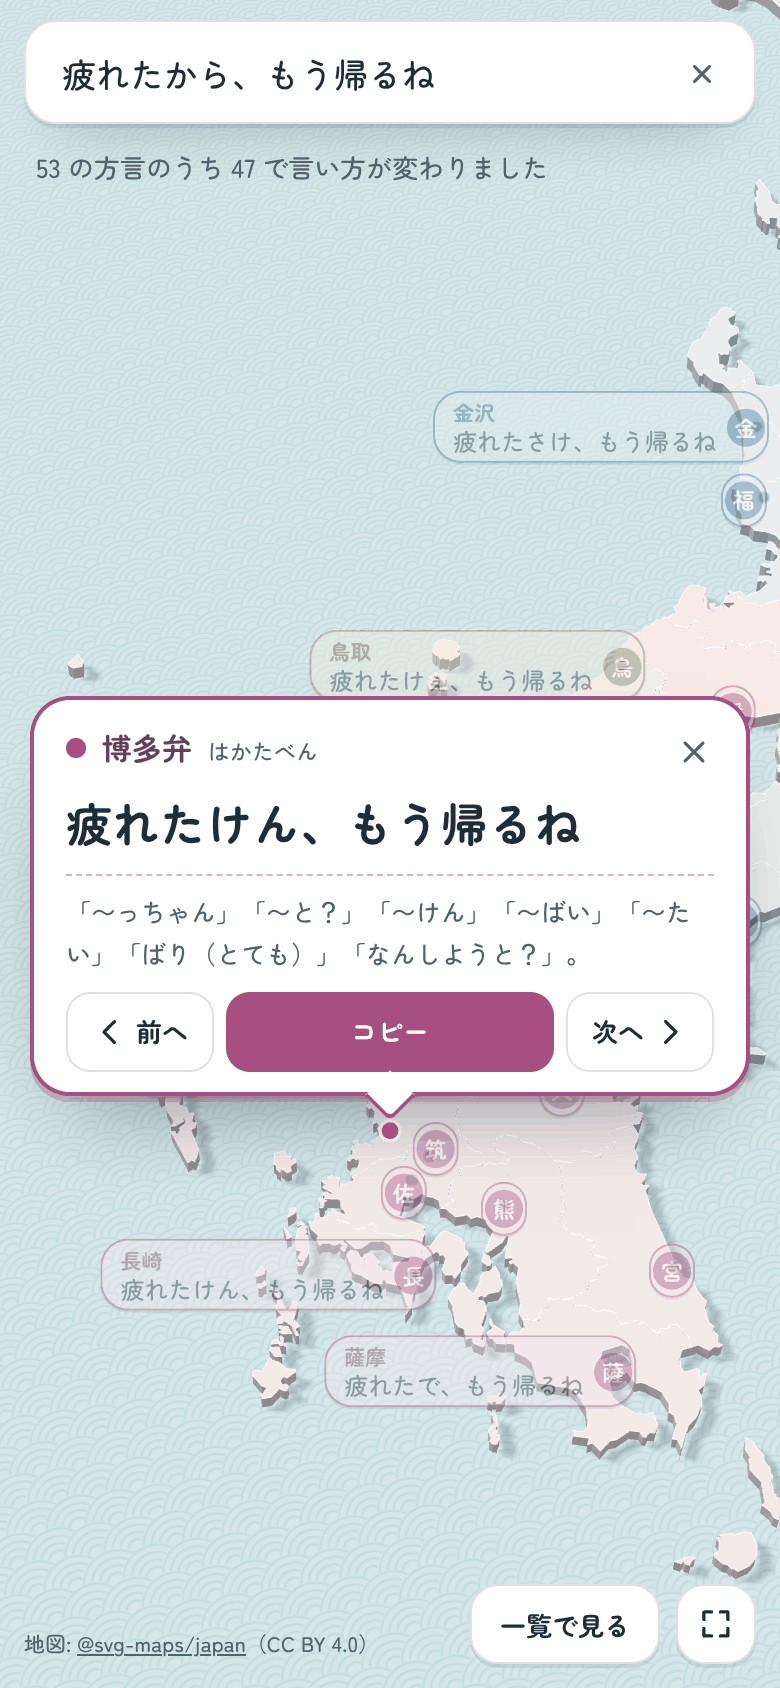
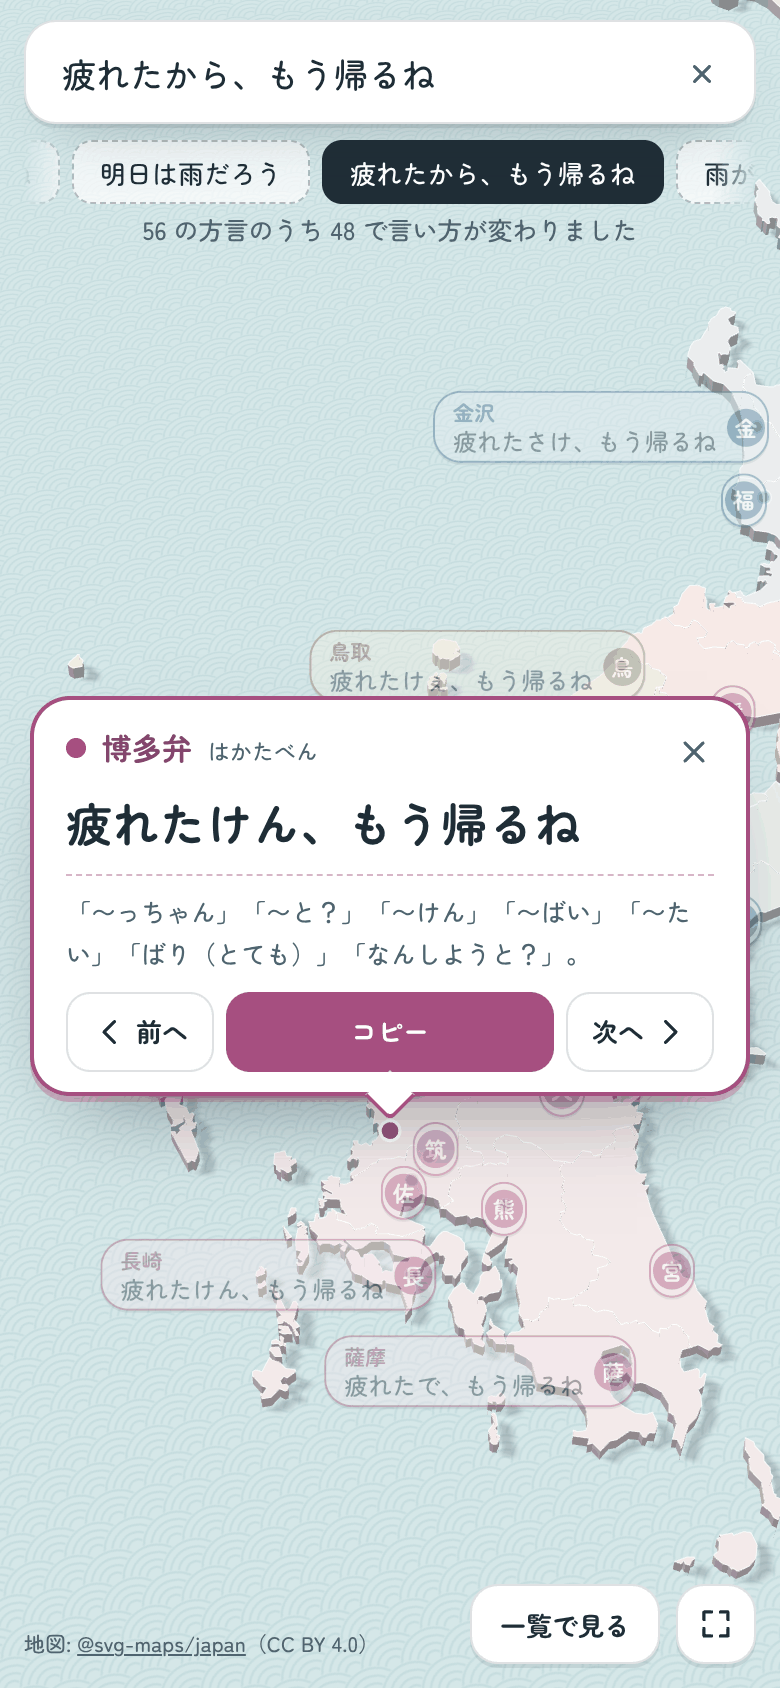
地図版の例文を 10 個に増やし、横にスクロールできるカルーセルにする
- 多くの方言で言い方が変わる文・沖縄語でも訳せる文から 10 個を選んだ
- 指では横スワイプ（スクロールスナップ）、マウスでは矢印、キーボードでは ← → Home End で送れる
- 続きがある側の端をぼかし、選んでいる例文は塗りつぶして示す。入力中も残るので切り替えて比べられる
- E2E を 3 件追加（スワイプ・最後の例文の選択・キーボード・矢印）

Claude-Session: https://claude.ai/code/session_01D5o7ZmMaNUna6DbU73qcjd

Changed region(s): [[0.0615, 0.0616, 0.9538, 0.154], [0.1231, 0.4313, 0.2462, 0.4621], [0.4923, 0.6469, 0.5231, 0.6777]]

diff --git a/src/map/main.ts b/src/map/main.ts
@@ -49,7 +49,19 @@ const shortName = (d: Dialect) =>
 /** アイコンの 1 文字（隣り合う方言と同じ字になるものだけ別の字に） */
 const ICON: Record<string, string> = { mie: '伊', uchinaa: 'や' };
 
-const SAMPLES = ['今日はとても暑いね', '疲れたから、もう帰るね', '明日は雨だろう', 'そんなことしたらだめだよ'];
+/** 例文（多くの方言で言い方が変わるもの・沖縄語でも訳せるものを選んだ） */
+const SAMPLES = [
+  '今日はとても暑いね',
+  '明日は雨だろう',
+  '疲れたから、もう帰るね',
+  '雨が降っているから、今日は行かない',
+  'まだ何も食べていない',
+  'そんなことしたらだめだよ',
+  '大丈夫だよ',
+  'それは本当にいいね',
+  'どこに行くの？',
+  '本当にありがとうございます',
+];
 
 /* ---------- DOM ---------- */
 
@@ -159,27 +171,89 @@ let missingWords: Record<string, string[]> = {};
 let text = '';
 let dictFailed = false;
 
+/* ---------- 例文のカルーセル ---------- */
+
+statusEl.innerHTML = `
+  <div class="carousel" role="region" aria-roledescription="カルーセル" aria-label="例文">
+    <button type="button" class="car-btn" data-dir="-1" aria-label="前の例文">
+      <svg viewBox="0 0 24 24" aria-hidden="true"><path d="M15 5l-7 7 7 7"/></svg>
+    </button>
+    <div class="samples" data-testid="samples"></div>
+    <button type="button" class="car-btn" data-dir="1" aria-label="次の例文">
+      <svg viewBox="0 0 24 24" aria-hidden="true"><path d="M9 5l7 7-7 7"/></svg>
+    </button>
+  </div>
+  <p class="status-line" aria-live="polite"></p>`;
+const carousel = statusEl.querySelector('.carousel') as HTMLElement;
+const track = statusEl.querySelector('.samples') as HTMLElement;
+const statusLine = statusEl.querySelector('.status-line') as HTMLElement;
+const sampleBtns = SAMPLES.map((text, i) => {
+  const b = document.createElement('button');
+  b.type = 'button';
+  b.className = 'sample';
+  b.textContent = text;
+  b.setAttribute('aria-pressed', 'false');
+  b.setAttribute('aria-label', `例文 ${i + 1}/${SAMPLES.length}: ${text}`);
+  b.tabIndex = i === 0 ? 0 : -1;
+  b.addEventListener('click', () => {
+    input.value = text;
+    onInput(true);
+  });
+  track.appendChild(b);
+  return b;
+});
+
+/** 端まで来たら矢印を無効にし、続きがある側だけ端をぼかす */
+function updateCarousel() {
+  const max = track.scrollWidth - track.clientWidth;
+  const atStart = track.scrollLeft <= 2;
+  const atEnd = track.scrollLeft >= max - 2;
+  carousel.classList.toggle('at-start', atStart);
+  carousel.classList.toggle('at-end', atEnd);
+  (carousel.querySelector('[data-dir="-1"]') as HTMLButtonElement).disabled = atStart;
+  (carousel.querySelector('[data-dir="1"]') as HTMLButtonElement).disabled = atEnd;
+}
+track.addEventListener('scroll', updateCarousel, { passive: true });
+window.addEventListener('resize', updateCarousel);
+carousel.addEventListener('click', (e) => {
+  const btn = (e.target as HTMLElement).closest('.car-btn') as HTMLElement | null;
+  if (!btn) return;
+  track.scrollBy({ left: Number(btn.dataset.dir) * track.clientWidth * 0.8, behavior: reduceMotion ? 'auto' : 'smooth' });
+});
+// ← → で例文を移る（ロービングタブインデックス）
+track.addEventListener('keydown', (e) => {
+  const i = sampleBtns.indexOf(document.activeElement as HTMLButtonElement);
+  if (i < 0) return;
+  let j = -1;
+  if (e.key === 'ArrowRight') j = Math.min(i + 1, sampleBtns.length - 1);
+  else if (e.key === 'ArrowLeft') j = Math.max(i - 1, 0);
+  else if (e.key === 'Home') j = 0;
+  else if (e.key === 'End') j = sampleBtns.length - 1;
+  if (j < 0) return;
+  e.preventDefault();
+  focusSample(j);
+});
+function focusSample(j: number) {
+  sampleBtns.forEach((b, k) => (b.tabIndex = k === j ? 0 : -1));
+  sampleBtns[j].focus({ preventScroll: true });
+  sampleBtns[j].scrollIntoView({ inline: 'nearest', block: 'nearest', behavior: reduceMotion ? 'auto' : 'smooth' });
+}
+
 function setStatus() {
-  statusEl.replaceChildren();
-  if (!text) {
-    const row = document.createElement('div');
-    row.className = 'samples';
-    for (const s of SAMPLES) {
-      const b = document.createElement('button');
-      b.type = 'button';
-      b.className = 'sample';
-      b.textContent = s;
-      b.addEventListener('click', () => {
-        input.value = s;
-        onInput(true);
-      });
-      row.appendChild(b);
-    }
-    statusEl.appendChild(row);
-    return;
+  // 選んでいる例文を示し、見える位置へ
+  const cur = SAMPLES.indexOf(text);
+  sampleBtns.forEach((b, k) => b.setAttribute('aria-pressed', String(k === cur)));
+  if (cur >= 0) {
+    sampleBtns.forEach((b, k) => (b.tabIndex = k === cur ? 0 : -1));
+    sampleBtns[cur].scrollIntoView({ inline: 'nearest', block: 'nearest', behavior: reduceMotion ? 'auto' : 'smooth' });
   }
-  const p = document.createElement('p');
+  updateCarousel();
+
+  const p = statusLine;
   p.className = 'status-line';
+  delete p.dataset.testid;
+  p.textContent = '';
+  if (!text) return;
   if (dictFailed) {
     p.classList.add('error');
     p.textContent = '辞書を読み込めませんでした。通信状態を確認して、もう一度入力してください。';
@@ -192,7 +266,6 @@ function setStatus() {
     p.dataset.testid = 'summary';
     p.textContent = changed ? `${SUPPORTED.length} の方言のうち ${changed} で言い方が変わりました` : 'どの方言でも共通語と同じ言い方です';
   }
-  statusEl.appendChild(p);
 }
 
 function applyResults(animate: boolean) {

diff --git a/src/map/map.css b/src/map/map.css
@@ -61,40 +61,103 @@
   left: 0;
   right: 0;
   top: calc(var(--top-safe) + 68px);
-  height: 34px;
+  height: 58px;
   display: flex;
-  justify-content: center;
+  flex-direction: column;
+  align-items: center;
   padding: 0 12px;
   pointer-events: none;
 }
-.samples {
+
+/* ---------- 例文のカルーセル ---------- */
+
+.carousel {
   pointer-events: auto;
-  max-width: 520px;
+  position: relative;
   width: 100%;
+  max-width: 520px;
+  height: 36px;
   display: flex;
+  align-items: center;
+  gap: 4px;
+}
+.samples {
+  flex: 1;
+  min-width: 0;
+  height: 36px;
+  display: flex;
+  align-items: center;
   gap: 6px;
   overflow-x: auto;
+  overscroll-behavior-x: contain;
+  scroll-snap-type: x mandatory;
+  scroll-padding-inline: 24px;
   scrollbar-width: none;
-  padding-bottom: 2px;
+  touch-action: pan-x;
+  /* 続きがある側の端をぼかす */
+  --fade-l: 22px;
+  --fade-r: 22px;
+  mask-image: linear-gradient(90deg, transparent 0, #000 var(--fade-l), #000 calc(100% - var(--fade-r)), transparent 100%);
+  -webkit-mask-image: linear-gradient(90deg, transparent 0, #000 var(--fade-l), #000 calc(100% - var(--fade-r)), transparent 100%);
 }
 .samples::-webkit-scrollbar { display: none; }
+.carousel.at-start .samples { --fade-l: 0px; }
+.carousel.at-end .samples { --fade-r: 0px; }
 .sample {
   flex: none;
+  scroll-snap-align: start;
   height: 32px;
-  padding: 0 12px;
+  padding: 0 13px;
   border-radius: 10px;
   border: 1px dashed rgba(31, 45, 54, 0.3);
-  background: rgba(255, 255, 255, 0.62);
+  background: rgba(255, 255, 255, 0.7);
   color: var(--ink);
   font: 500 13px/1 var(--font);
+  white-space: nowrap;
   cursor: pointer;
+  transition: background-color 0.2s ease, border-color 0.2s ease, color 0.2s ease;
+}
+.sample[aria-pressed='true'] {
+  border-style: solid;
+  border-color: var(--ink);
+  background: var(--ink);
+  color: #fff;
+}
+.sample:focus-visible { outline: 3px solid var(--ink); outline-offset: 1px; }
+/* 矢印はマウスで操作する画面だけ（指では横にスワイプ） */
+.car-btn {
+  display: none;
+  flex: none;
+  width: 32px;
+  height: 32px;
+  border-radius: 10px;
+  border: 1px solid var(--edge);
+  background: #fff;
+  color: var(--ink);
+  place-items: center;
+  cursor: pointer;
+}
+.car-btn svg {
+  width: 16px;
+  height: 16px;
+  fill: none;
+  stroke: currentColor;
+  stroke-width: 2.4;
+  stroke-linecap: round;
+  stroke-linejoin: round;
+}
+.car-btn:disabled { opacity: 0.35; cursor: default; }
+@media (hover: hover) and (pointer: fine) {
+  .car-btn { display: grid; }
 }
 .status-line {
   margin: 0;
   max-width: 520px;
   width: 100%;
   padding: 0 6px;
-  font: 500 13px/32px var(--font);
+  height: 22px;
+  font: 500 12.5px/22px var(--font);
+  text-align: center;
   color: var(--ink-2);
   white-space: nowrap;
   overflow: hidden;

diff --git a/README.md b/README.md
@@ -40,6 +40,7 @@
 | ![](docs/map-1.png) | ![](docs/map-2.png) | ![](docs/map-3.png) | ![](docs/map-4.png) |
 
 - 入力欄は JS より先に HTML にあり、起動前に打った文字も引き継ぎます。読み込み中は列島のシルエットを出します
+- 入力欄の下に例文 10 個のカルーセルがあります。指では横にスワイプ、マウスでは矢印、キーボードでは ← → Home End で送れます。続きがある側の端はぼかし、選んでいる例文は塗りつぶして示します。入力中も消えないので、例文を次々に切り替えて比べられます
 - 陸地は都道府県ごとに押し出した立体で、上面を方言区分の色で塗り分けています。海は青海波の模様です。起動時は陸地が海から浮かび上がります
 - アイコンは方言区分の色の丸に 1 文字です。近い地点どうしは重ならないよう押し合い、地点とは引き出し線でつなぎます。空きがあれば名前を添え、拡大すると名前と変換結果も出ます
 - 変換結果が共通語と同じだった方言は薄く表示し、何方言で言い方が変わったかを入力欄の下に出します
@@ -124,7 +125,7 @@ npm test                          # 型チェック → 単体 → ビルド →
 | E2E（Playwright, 390px モバイル） | 17 | JS 前の入力引き継ぎとスケルトン、検索、ストリーミング変換とコピー、入力制限、ログイン誘導、Google ログイン → 保存 → フリック（右・左・削除・取り消し・小さなドラッグは戻る・マスターでは進めない）→ リロード後も保持 → 検索ヒット → ログアウト、キーボード操作、タッチ操作、動きを減らす設定、横スクロールなし、コンソールエラー 0、API の 401/403/400、偽造・改ざんトークン拒否、他人のデータへのアクセス拒否 |
 | E2E（デスクトップ 1280px） | 1 | 中央 1 カラム、`/` で検索、Ctrl+Enter で変換 |
 | E2E（静的版、サブパス配信） | 7 | JS 前の入力引き継ぎ・API 通信なし、地図版への入口、八丈方言を選べない・琉球諸語は選べる、沖縄語の変換と訳せない語の案内、変換できない文の表示、辞書読み込みと変換のストリーミング、ログインなしの保存・フリック・削除と取り消し・再読み込み後の保持 |
-| E2E（地図版、WebGL はソフトウェア描画） | 10 | 琉球諸語の訳・訳せない語の案内、JS 前の入力引き継ぎとシルエット、全 57 アイコンが画面内で重ならない（モバイル・パソコン）、一括変換と「変わらない方言」の表示、タップで拡大カード・カメラが寄る・前へ／次へ・Esc、アイコン上からのドラッグで地図が動く・全体表示に戻る、キーボード操作とフォーカスの戻り、共有リンクとコピー、変換できない言語の案内、タッチでの開閉 |
+| E2E（地図版、WebGL はソフトウェア描画） | 13 | 例文カルーセル（スワイプ・矢印・キーボード・最後の例文まで選べる）、琉球諸語の訳・訳せない語の案内、JS 前の入力引き継ぎとシルエット、全 57 アイコンが画面内で重ならない（モバイル・パソコン）、一括変換と「変わらない方言」の表示、タップで拡大カード・カメラが寄る・前へ／次へ・Esc、アイコン上からのドラッグで地図が動く・全体表示に戻る、キーボード操作とフォーカスの戻り、共有リンクとコピー、変換できない言語の案内、タッチでの開閉 |
 
 ## ローカル開発
 
